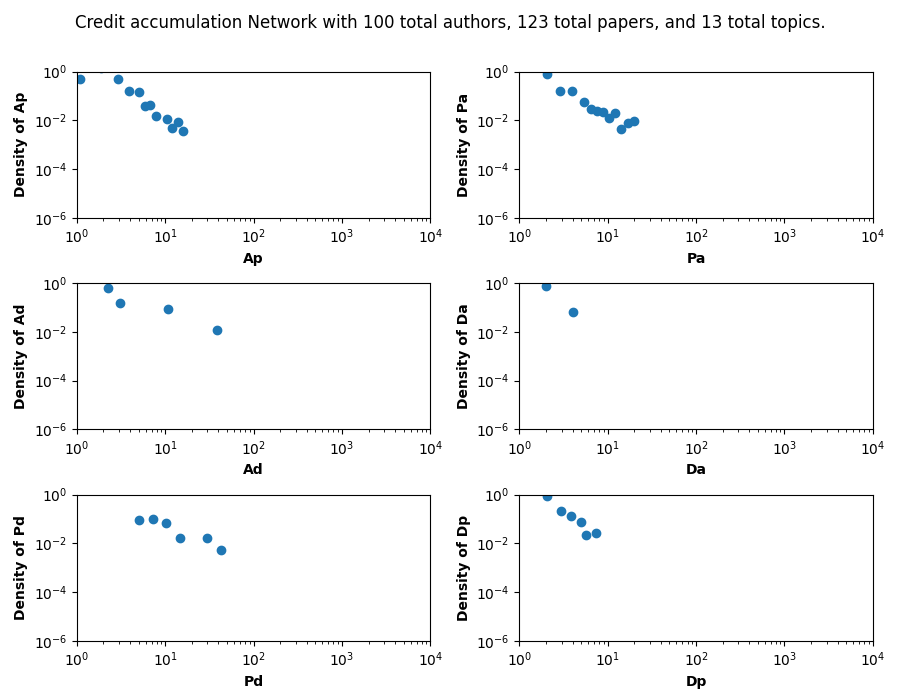
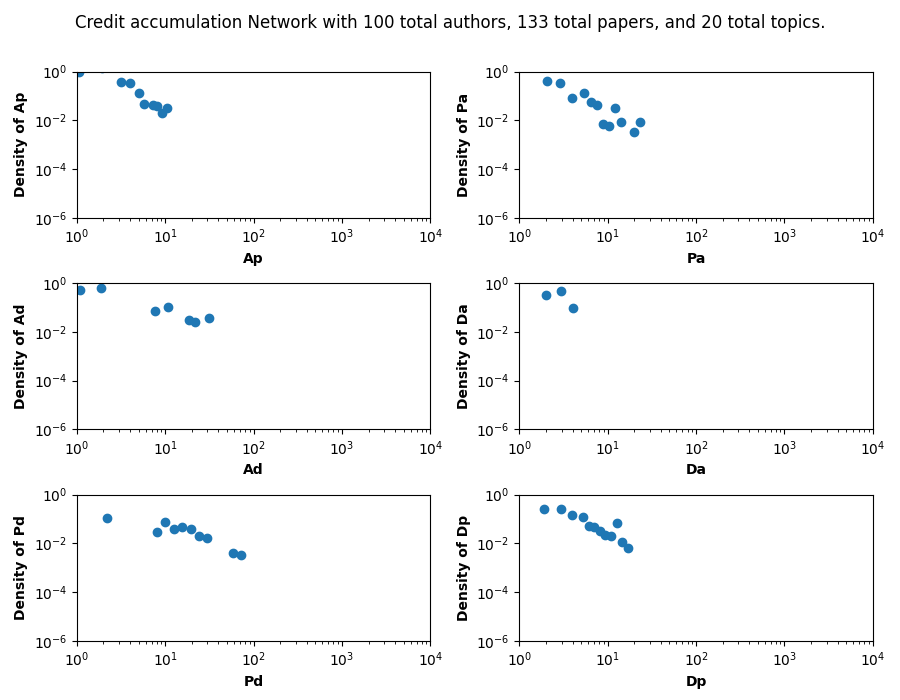
Declared plotting functions

diff --git a/modules/Evolution.py b/modules/Evolution.py
@@ -350,6 +350,54 @@ class Evolution:
         # print(f'Initial Paper: {self.initialPaper}')
 
     '''Plotting methods'''
+    def plotCreditPaperTypeDistrib(self, saveToFile=None):
+        '''
+        Will Plot the Average credit per paper, separating by type
+            Will create data structure for plotting like the following:
+            {PaperID:
+                {Type1: Average credit added, Type2: Average Credit Added}
+            }
+        '''
+        paperCreditDistrib = {}
+        types = {}
+        for authID in self.network.getAuthorIDs():
+            authorClass = self.network.getAuthorClass(authID)
+            for paperID, creditAdded in authorClass.getPaperClassDict().items():
+                # add paper to dict if not there
+                if paperID not in paperCreditDistrib:
+                    paperCreditDistrib[paperID] = {}
+                
+                # add type to distribution if not there
+                if authorClass.getType() not in paperCreditDistrib[paperID]:
+                    paperCreditDistrib[paperID][authorClass.getType()] = creditAdded
+                    types[authorClass.getType()] = True
+                
+                # average the value in the paper credit dict
+                paperCreditDistrib[paperID][authorClass.getType()] = ( paperCreditDistrib[paperID][authorClass.getType()] + creditAdded ) / 2
+
+        # create scatter plot
+        fig = plt.figure(figsize=(9, 7))
+        axis = fig.add_subplot()
+
+        # Add scatters for each type
+        for t in types.keys():
+            x = [key for key, avgCredit in paperCreditDistrib.items() if t in avgCredit]
+            y = [avgCredit[t] for avgCredit in paperCreditDistrib.values() if t in avgCredit]
+            axis.scatter(x, y, label=str(t))
+        
+        # styling
+        axis.set_ylabel(f'Average Credit Per Paper', fontweight='bold')
+        axis.set_xlabel(f'Papers', fontweight='bold')
+        fig.suptitle(f'''Credit Distribution by Paper''')
+        plt.legend([str(x) for x in types.keys()], title="Type")
+        fig.tight_layout()
+
+        if saveToFile:
+            fig.savefig(saveToFile)
+            print(f'Saved to {saveToFile} successfully!')
+
+        return fig, axis
+
     def plotDistibution(self, distribution, label='', ylogBase=10, xlogBase=10, ylim=10**-6, xlim=10**4, saveToFile=None):
 
         largestVal = max(distribution)

diff --git a/modules/ScholarNetwork.py b/modules/ScholarNetwork.py
@@ -76,16 +76,16 @@ class Graph(nx.Graph):
         Function will update the topics and papers of all authors, updating their credit for the paper and the paper itself
         '''
 
-        # get the author with the max reputation
-        maxReputation = max(self.getAuthorClass(authID).getReputation() for authID in authors)
+        # get the sum of all the authors reputations
+        maxReputation = sum(self.getAuthorClass(authID).getReputation() for authID in authors)
 
-        # right now doing base case of 
         for authID in authors:
             authorClass = self.getAuthorClass(authID)
             authorClass.insertPaper(paperID, topics)
-            # distribute the credit by type
+            
+            # distribute the credit by type to the authors
             amountCredit = authorClass.getType().getCreditAmount(maxReputation)
-            authorClass.addCredit(amountCredit)
+            authorClass.addCredit(amountCredit, paperID)
 
     def determinePaperTopic(self, authors):
         '''

diff --git a/modules/Author.py b/modules/Author.py
@@ -26,6 +26,7 @@ class Author:
         # credit accumulation
         self.credit = 1
         self.type = None
+        self.paperCredit = {}
 
         # measures
         self.numPapers = 0
@@ -33,6 +34,9 @@ class Author:
 
     def getData(self):
         return self.collection
+
+    def getPaperClassDict(self):
+        return self.paperCredit
 
     def getAge(self, currentIteration):
         return currentIteration - self.birthIteration
@@ -101,7 +105,8 @@ class Author:
     #     dfNeighbors = pd.DataFrame(data=formattedData, columns=["Neighbor", "Weight"])
     #     print(dfNeighbors.to_string(index=False))
 
-    def addCredit(self, creditAmount):
+    def addCredit(self, creditAmount, paperID):
+        self.paperCredit[paperID] = creditAmount
         self.credit += creditAmount
 
     def setType(self, type):

diff --git a/modules/Paper.py b/modules/Paper.py
@@ -16,6 +16,7 @@ class Paper:
         return self.topics
 
     def getAuthors(self):
+        '''will return list of author ids'''
         return self.authors
 
     def getNumTopics(self):

diff --git a/modelReplication.py b/modelReplication.py
@@ -1,5 +1,4 @@
 from multiprocessing.pool import RUN
-import sys
 from modules.Evolution import Evolution
 from modules.HTMLPage import Page
 import pickle

diff --git a/main.py b/main.py
@@ -4,6 +4,8 @@ env = Evolution(Pn=.8)
 
 env.evolve(newAuthors=100)
 
+env.plotCreditPaperTypeDistrib()
+
 # env.printAuthor(0)
 # env.printPaper(1)
 
